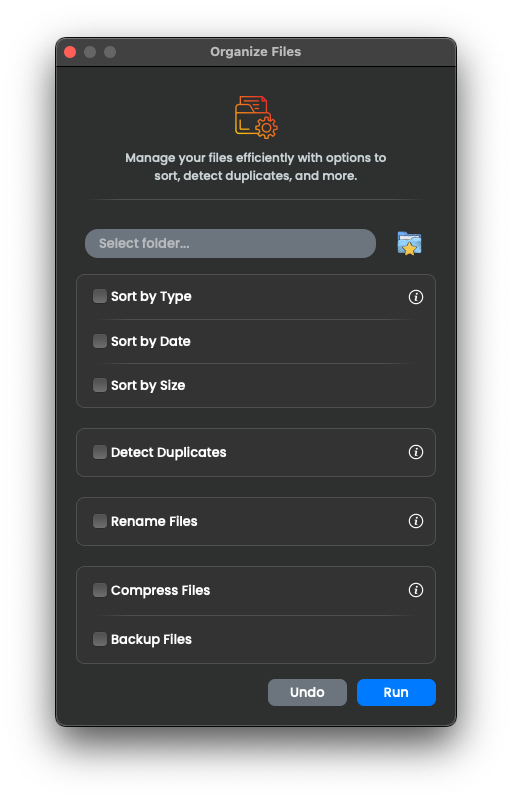
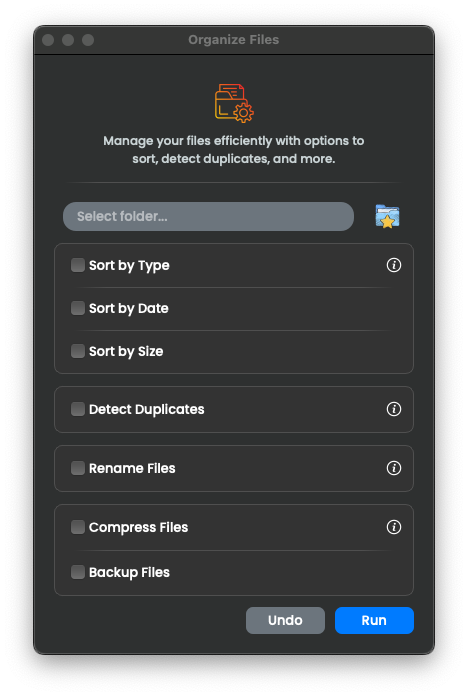
Spacing, margins and paddings for Organize Files adjusted.

diff --git a/src/ui/file_organizer_view.py b/src/ui/file_organizer_view.py
@@ -31,7 +31,7 @@ class FileOrganizerCustomizationDialog(QDialog):
     def __init__(self, parent=None):
         super().__init__(parent)
         self.setWindowTitle("Organize Files")
-        self.setFixedSize(400, 660)
+        self.setFixedSize(400, 600)
 
         # Initialize the checkbox dictionary
         self.checkbox_dict = {}
@@ -50,15 +50,14 @@ class FileOrganizerCustomizationDialog(QDialog):
         # Header section
         header_widget = QWidget()
         header_layout = QVBoxLayout(header_widget)
-        header_layout.setContentsMargins(0, 10, 0, 0)  # Adjust top margin to reduce space
-        header_layout.setSpacing(5)
+        header_layout.setContentsMargins(0, 0, 0, 0)
         header_layout.setAlignment(Qt.AlignTop | Qt.AlignHCenter)
 
         # Icon
         icon_label = QLabel()
         icon_pixmap = QPixmap("assets/photos/file_management.png")  # Icon by Uniconlabs
-        icon_pixmap = icon_pixmap.scaled(43, 43, Qt.KeepAspectRatio, Qt.SmoothTransformation)
-        icon_label.setContentsMargins(0, 0, 0, 5)
+        icon_pixmap = icon_pixmap.scaled(39, 39, Qt.KeepAspectRatio, Qt.SmoothTransformation)
+        icon_label.setContentsMargins(0, 10, 0, 1)
         icon_label.setPixmap(icon_pixmap)
         icon_label.setAlignment(Qt.AlignCenter)
 
@@ -79,7 +78,7 @@ class FileOrganizerCustomizationDialog(QDialog):
         # Add a separator line after the header
         separator_line = create_separator()
         layout.addWidget(separator_line)
-        layout.addSpacing(15)
+        layout.addSpacing(5)
 
         # Folder selection section
         folder_layout = QHBoxLayout()
@@ -96,7 +95,7 @@ class FileOrganizerCustomizationDialog(QDialog):
 
         # Sorting Operations Card
         sorting_labels = ["Sort by Type", "Sort by Date", "Sort by Size"]
-        sorting_info_text = "Organize your files effortlessly by type, date, or size. The app will create relevant folders in your target directory and move your files accordingly. \n\nNeed to revert? Use the Undo option to return to the previous state."
+        sorting_info_text = "Organize your files by type, date, or size. The app will create relevant folders in your target directory and move your files accordingly. \n\nNeed to revert? Use the Undo option to return to the previous state."
         sorting_card = self.build_checkbox_card(sorting_labels, info_text=sorting_info_text)
         layout.addWidget(sorting_card)
 
@@ -138,7 +137,7 @@ class FileOrganizerCustomizationDialog(QDialog):
         layout.addLayout(button_layout)
         self.setLayout(layout)
 
-    def build_checkbox_card(self, labels, margins=(10, 15, 10, 15), spacing=5, info_text=""):
+    def build_checkbox_card(self, labels, margins=(10, 10, 10, 10), spacing=3, info_text=""):
         """
         Build a card widget containing checkboxes with the relevant labels and an info icon placed to the right.
         """
@@ -156,7 +155,7 @@ class FileOrganizerCustomizationDialog(QDialog):
             row_widget = QWidget()
             row_layout = QHBoxLayout()
             row_layout.setContentsMargins(0, 0, 0, 0)
-            row_layout.setSpacing(5)
+            row_layout.setSpacing(0)
 
             # Add checkbox to the layout
             row_layout.addWidget(checkbox)

diff --git a/src/ui/components.py b/src/ui/components.py
@@ -143,7 +143,7 @@ class InfoWindow(QDialog):
         # Info text label
         info_label = QLabel(info_text)
         info_label.setWordWrap(True)
-        info_label.setStyleSheet("color: white; font-size: 12px;")
+        info_label.setStyleSheet("color: #C9D3D5; font-size: 12px;")
         main_layout.addWidget(info_label)
 
         # Spacer to push the separator and button to the bottom

diff --git a/src/ui/style.py b/src/ui/style.py
@@ -90,8 +90,8 @@ QWidget[class="card"] {
     background-color: #333333;
     border: 1px solid #4f4f4f;
     border-radius: 8px;
-    margin: 5px 0px;
-    padding: 10px 10px;
+    margin: 1px 0px;
+    padding: 8px 8px;
 }
 """
 
